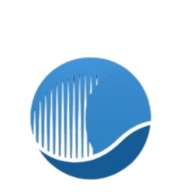
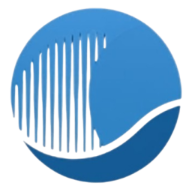
Images updates

diff --git a/index.html b/index.html
@@ -21,7 +21,7 @@
   <header class="site-header">
     <div class="container header-inner">
       <a href="/" class="brand">
-        <img src="images/NTOKIA.jpg" alt="NTOKIA Logo" class="brand-thumb">
+        <img src="images/NTOKIA.png" alt="NTOKIA Logo" class="brand-thumb">
         <div>
           <h1 style="margin: 0; font-size: 24px;">NTOKIA</h1>
           <p class="tagline">Let's build a better future</p>
@@ -55,7 +55,7 @@
           </div>
         </div>
         <div class="hero-image-wrap">
-          <img src="images/GDG.jpg" alt="NTOKIA services illustration" class="hero-image">
+          <img src="images/hero-img.jpg" alt="NTOKIA services illustration" class="hero-image">
         </div>
       </div>
     </section>
